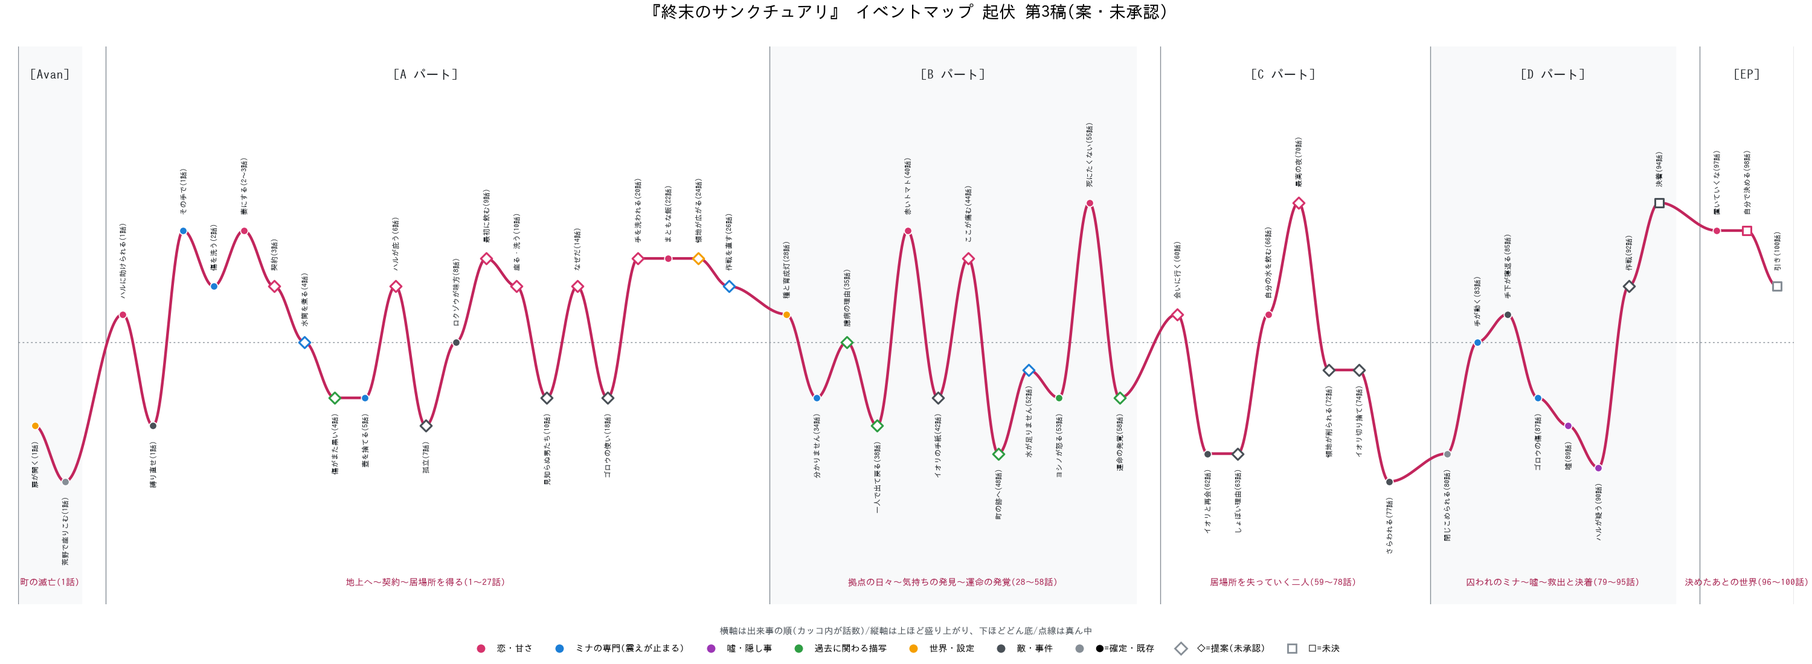
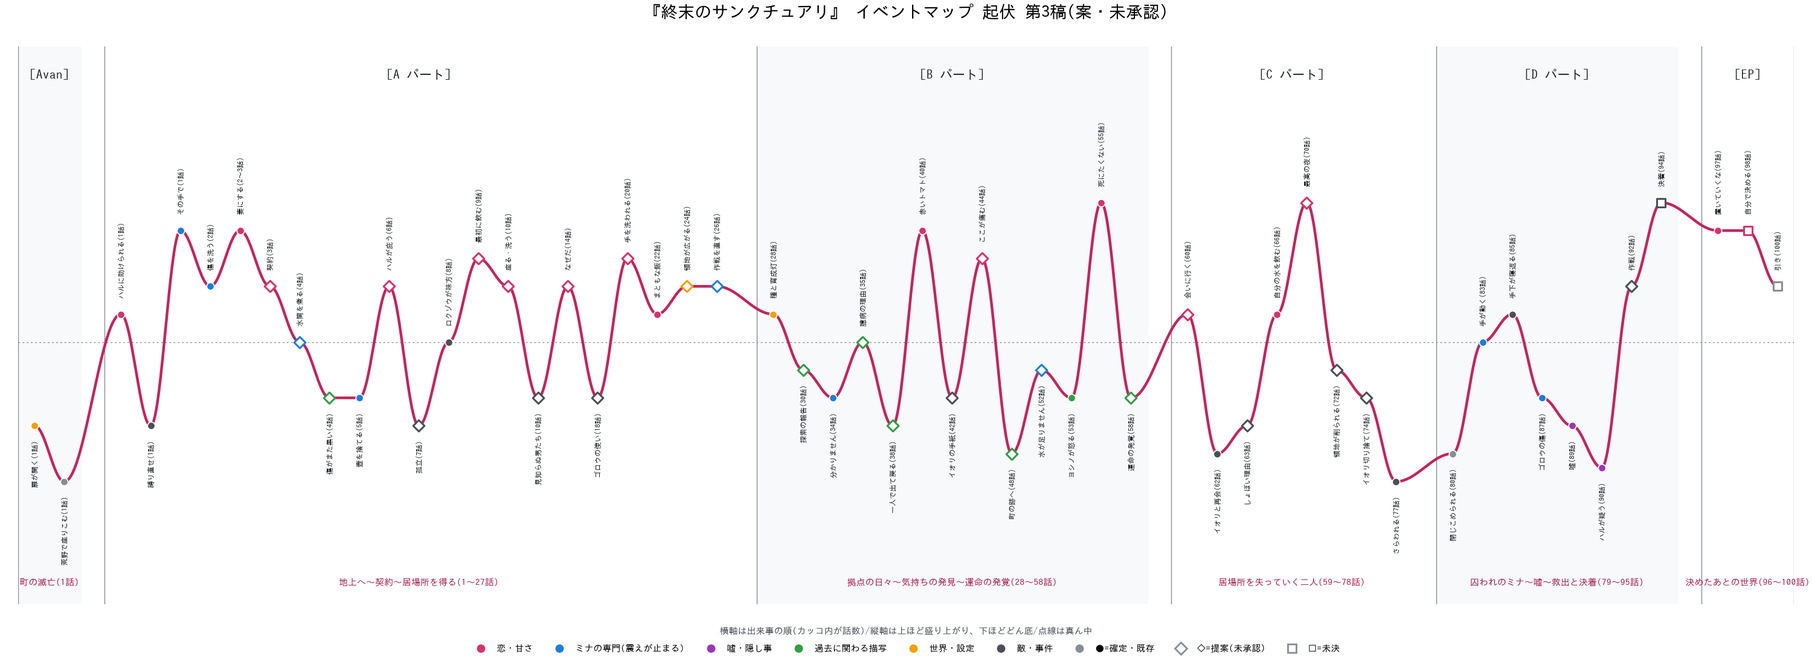
Reflect all review decisions in the event map, memo and CLAUDE.md
Claude-Session: https://claude.ai/code/session_018dkUDXa3XjFeNeXGfXNeGK

diff --git a/novels/shumatsu-no-sanctuary/案/案_イベントマップ.md b/novels/shumatsu-no-sanctuary/案/案_イベントマップ.md
@@ -8,7 +8,8 @@
 - 「空き」の話数は、日常回・つなぎ回。中身は未決(足していない)
 - ミナとハルの台詞に数字がないことをスクリプトで確認済み(0件)
 - 14話の「今のを、繰り返せ」は、9話にも同じ台詞がある。意図した反復かどうか、要確認
-- 22話の飯で手下が「姐さん」と呼ぶ形は、企画書どおり。34話で変える案は `案_予想を外す.md` #3
+- 手下が「姐さん」と呼ぶのは34話から(予想を外す#3を採用)。22話は、うまい、だが「ボスの薬を捨てた女」のまま
+- 2026-10-02: 点検の結果と「予想を外す案」の採用を反映(【変】)。決定の一覧は `04_進捗メモ.md`
 
 ---
 
@@ -53,7 +54,7 @@
   手下「その女が、ボスの薬を」ハル「その薬は、俺が捨てさせた。文句があるなら、俺に言え」。夜、ハル「傷の続きを診ろ。……手下のいない時に」
 
 ・手下に避けられ、夜通し鍋を洗う(7話)【新】 [起伏2/敵/★]
-  水汲みに誰も付き合わない。ヨシノ「お嬢様。自分の分は」ミナ「……はい」ヨシノ「はい、じゃなくて」。ミナは夜が明けるまで鍋を洗う。暗がりで、ハルが見ている
+  水汲みに誰も付き合わない。ヨシノ「お嬢様。自分の分は、飲みましたか」ミナ「……あとで、飲みます」ヨシノ「あとで、って何回言うんですか」。ミナは夜が明けるまで鍋を洗う。暗がりで、ハルが見ている
 
 ・ロクゾウが味方につき、ハルが決める(8話) [起伏5/敵/○]
   ハル「今日から、水はミナの言うとおりにやる。……俺が決めた」ロクゾウ「姐さん一人で、水汲みが四人浮く。……損はしねえ」
@@ -76,33 +77,36 @@
 ・ハルが、ミナの手を洗う(ヨシノも同意)(20話) [起伏8/恋/★]
   【ハル、ミナの手首をつかんで水桶に入れる】ミナ「ひっ……な、なにを」ハル「お前は人の手ばかり洗って、自分の手は後回しだ。理屈に合わない」ヨシノ「……その人の言うとおりです、お嬢様」ミナ「ヨシノまで……」
 
-・最初のまともな飯、「姐さん」(22話) [起伏8/恋/○]
-  手下「……うめえ」手下「姐さん、おかわり」ミナ「え、あ、はい……」
+・最初のまともな飯。うまい、だがまだ「ボスの薬を捨てた女」(22話)【変】 [起伏6/恋/○]
+  手下「……うめえ」手下「……だが、ボスの薬を捨てた女だ」ミナ「あ、はい……」
 
-・領地が、ミナの知らないうちに広がる(24話) [起伏8/世界/★]
-  ロクゾウ「姐さん、また一つ、集落が入ってきました」ミナ「え。わたし、水を分けただけで」ハル「水のあるところに、人は集まる。集まれば、そこが領地になる。……お前の仕業だ」
+・領地が、ミナの知らないうちに広がる(24話)【変】 [起伏7/世界/★]
+  ロクゾウ「姐さん、集落が、水を分けてくれと来ました」ミナ「え。わたし、水を汲んだだけで」ハル「水のあるところに、人は集まる。集まれば、そこが領地になる。……お前の仕業だ」
 
 ・ハルの作戦を、ミナが直す(使いの一団を迎え撃つ)(26話) [起伏7/専門・敵/★]
-  ハル「使いの後ろに、まだ来る。裏の井戸で待ち伏せる」ミナ「そ、その井戸は……だめです」ハル「なぜだ。水は澄んでいる」【ミナ、水を光にかざす。震えが、止まる】ミナ「澄んでいるのに、においがしません。虫もいません。生き物が寄りつかない水は、飲めません」【ハル、地図を描き直す】ハル「……俺の作戦を直したのは、お前が初めてだ」
+  ハル「使いの後ろに、まだ来る。裏の井戸で待ち伏せる」ミナ「そ、その井戸は……だめです」ハル「なぜだ。水は澄んでいる」【ミナ、水を光にかざす。震えが、止まる】ミナ「澄んでいるのに、においがしません。虫もいません。生き物が寄りつかない水は、飲めません」【ハル、地図を描き直す】ハル「……俺の作戦を直したのは、お前が初めてだ」【迎え撃ちのあと】ハル「使いの連中だ。……ここでは、殺していない」ミナ「……ここでは」ハル「お前が言った。お前のいる場所では、殺すな、と。この先の谷は、お前のいる場所ではない」ミナ「……次から、『どこでも』と、言います」ハル「そう言え。……言われなければ、守れない」
 
 (空き: 11〜13話、15〜17話)
 
 ## Bパート(28〜58話) 拠点の日々〜気持ちの発見〜運命の発覚
 
-・種と育成灯(28話) [起伏6/世界/○]
-  ミナが荷の底から種を出す。ロクゾウ「……これ、いくらになる」
+・種と育成灯(28話)【変】 [起伏6/世界/○]
+  略奪団の戦利品の山から、ミナが種を見つける。ハル「戦利品の底にあった。使い道が、分からん」ミナ「……種と、育てるための灯です」ロクゾウ「……これ、いくらになる」
 
-・燃料が尽き、「分かりません」(34話) [起伏3/専門/○]
-  ミナ「……分かりません」。手下たちが初めて、ミナを心配して集まる
+・イオリの探索の報告(30話)【新】 [起伏4/過去/★]
+  ロクゾウ「姐さん、イオリって男は、まだ見つかりません」ミナ「……そう、ですか」ハル「探している。続ける」
 
-・ミナの臆病の理由を、ハルに打ち明ける(35話) [起伏5/過去/★]
-  ミナ「子どものころ、水の検査を、見落としました。町の子どもたちが、たくさん、寝こんで」ハル「見落としたのは、昔のお前だ。今のお前は、毎日見ている」
+・燃料が尽き、「分かりません」(34話)【変】 [起伏3/専門/○]
+  ミナ「……分かりません」。手下たちが初めて、ミナを心配して集まる。手下「姐さんでも、分からねえことがあるのか」手下「……火なら、俺たちが起こす」【手下たち、「姐さん」と呼びはじめる】
+
+・ミナの臆病の理由を、ハルに打ち明ける(35話)【変】 [起伏5/過去/★]
+  ミナ「子どものころ、水の検査を、見落としました。町の子どもたちが、たくさん、寝こんで」ハル「その検査は、今は誰が」ミナ「……わたしです」ハル「なら、今夜も頼む」
 
 ・一人でイオリの手がかりを追い、震えて戻る(38話) [起伏2/過去/★]
-  ミナは荒野で震えて動けなくなり、自分の足で戻る。ミナ「……鍋を、置いてきたので」
+  ミナは荒野で震えて動けなくなり、自分の足で戻る。ミナ「……鍋を、置いてきたので」。少し離れて、ヨシノがついてきている。ヨシノ「お嬢様。鍋は、私が持ちます」
 
-・最初の赤いトマト(40話) [起伏9/恋/○]
-  灰色の荒野に赤い実。手下全員が覗きに来る。ハル「……食えるのか」ミナ「はい。洗ってから」
+・最初の赤いトマト(40話)【変】 [起伏9/恋/○]
+  灰色の荒野に赤い実。手下全員が覗きに来る。ロクゾウ「姐さん。……実が、七つ。数は、合います」ミナ「あ、はい」ハル「……食えるのか」ミナ「はい。洗ってから」【手下が、鍋の前に列を作る】ロクゾウ「姐さん、これで合ってますか」。【ミナ、ハルの左肩を見る】ミナ「……傷、塞がりました」ハル「そうか」
 
 ・イオリの手紙が届く(小物のヒールの初登場)(42話) [起伏3/敵/★]
   使いが、手紙を置いていく。ミナが読み上げる。ミナ「『生きていたのか。運のいい女だ。ゴロウさんに、頼んでやる。戻ってこい。感謝しろ』」ハル「……その男が、お前の婚約者か」ミナ「はい。……手続き上は」
@@ -110,14 +114,14 @@
 ・「ここが痛む。原因を調べろ」(44話) [起伏8/恋/★]
   ハル「お前がその名前を言うと、ここが痛む。原因を調べろ」ミナ「そ、それは、わたしの専門外です!」
 
-・町の跡へ、大事なものを取りに行く(48話) [起伏1/過去・世界/★]
-  扉の前でミナの足が止まる。ハル「行く」ミナ「でも」ハル「お前が見る景色は、俺も見る」(取りに行くものは未決)
+・町の跡へ、見に行く(取りに行くものはなし。生存者はいない)(48話)【変】 [起伏1/過去・世界/★]
+  扉の前でミナの足が止まる。ハル「行く」ミナ「でも」ハル「お前が見る景色は、俺も見る」。ミナ「……誰も、いませんでした」ハル「探したか」ミナ「はい。……全部」
 
 ・他勢力の襲撃。誰も死なない。ハルが左肩を切られる(52話) [起伏4/専門/★]
   ミナ「……水が、足りません」。倒れた敵のけが人の手当てで、手一杯になる。ヨシノ「お嬢様。あの人の肩が」ミナ「……え」【ハル、外套の左肩(2話と同じ側)が黒く濡れている。何も言わない】
 
-・ミナが自分を責めて眠らず、ヨシノが怒る(53話) [起伏3/過去/○]
-  ヨシノ「お嬢様。自分の分は」ミナ「……はい」
+・ミナが自分を責めて眠らず、ヨシノが怒る(53話)【変】 [起伏3/過去/○]
+  ヨシノ「お嬢様。自分の分は、飲みましたか」ミナ「……飲みました」ヨシノ「……嘘ですね」ミナ「ご、ごめんなさい」
 
 ・恋の中間点:ハルが傷を見せに来る。初めて名前を呼ぶ(55話) [起伏10/恋/○]
   ハルが自分から傷を見せに来る。ハル「……死にたくない」ミナ「はい。それでいいと思います」ハル「……ミナ」ミナ「は、はい」ハル「……呼んだだけだ」
@@ -125,7 +129,7 @@
 ・運命の発覚:町を襲ったのは、ハルから缶詰を奪った男ゴロウだった(58話) [起伏3/過去・敵/★]
   ロクゾウ「イオリって男は、ゴロウの陣営にいます」ハル「……町を襲ったのは、ゴロウか。あの男は、昔、俺から缶詰を奪った」ミナ「……缶詰を?」ハル「昔だ」
 
-(空き: 29〜33話、45〜47話、49〜51話)
+(空き: 29話、31〜33話、45〜47話、49〜51話)
 
 ## Cパート(59〜78話) 居場所を失っていく二人
 
@@ -135,19 +139,19 @@
 ・イオリと再会し、本人の口から知る(62話)【変】 [起伏1/敵/○]
   イオリ「ミナ。お前が、生きていたのか」イオリ「……扉を開けたのは、俺だ」ミナ「……え」【ミナ、息が止まる】
 
-・しょぼい理由(仮:案1)(63話)【変】 [起伏1/敵/★]
+・しょぼい理由(仮:案1)(63話)【変】 [起伏2/敵/★]
   ミナ「……なぜ、皆を」イオリ「だって、笑ったんだ。皆の前で。俺を」ミナ「……それだけ、ですか」イオリ「俺は、悪くない。あいつらが、悪いんだ」
 
 ・ミナが自分の分の水を先に飲む(66話) [起伏6/恋/○]
   ミナが自分の分の水を先に飲む。ヨシノは何も言わず、外へ出ていく
 
 ・最高の夜:ハルが、ミナの手を洗う(20話の答え)(70話) [起伏10/恋/★]
-  ハル「手を出せ。……洗う。お前は、人の手ばかり洗う。今夜は、お前の番だ」ミナ「……はい」
+  ハル「手を出せ。……洗う。お前は、人の手ばかり洗う。今夜は、お前の番だ」ミナ「……はい」ハル「……乾くまで、待て」【二人、黙って座る】
 
-・ゴロウが、領地の集落を取り上げる(72話) [起伏4/敵/★]
-  ロクゾウ「姐さん。……集落が、二つ、向こうについた」ミナ「え。わたし、何か」ロクゾウ「水を、止められたそうです。あちらの親父に」
+・ゴロウが、領地の集落を取り上げる(72話)【変】 [起伏4/敵/★]
+  ロクゾウ「姐さん。……うちに入っていた集落が、二つ、向こうについました」ミナ「え。わたし、何か」ロクゾウ「水を、止められたそうです。あちらの親父に」
 
-・ゴロウがイオリを切り捨て、ミナを狙う(74話) [起伏4/敵/★]
+・ゴロウがイオリを切り捨て、ミナを狙う(74話)【変】 [起伏3/敵/★]
   ゴロウ「案内は済んだ。もう要らん」イオリ「俺は、お前たちの仲間だろう!」ゴロウ「仲間? 誰が」
 
 ・拠点が襲われ、ミナがさらわれる(77話) [起伏0/敵/○]
@@ -163,8 +167,8 @@
 ・汚れた水を見て、手が動く(83話) [起伏5/専門/○]
   【ミナの震えが、止まる】ミナ「その水は、飲まないでください」
 
-・ゴロウの手下が、一人ずつミナの側につく(85話) [起伏6/敵/○]
-  手下「あんたの水は、腹をこわさない」
+・ゴロウの手下が、一人ずつミナの側につく(85話)【変】 [起伏6/敵/○]
+  手下【空の水筒を、黙って差し出す】ミナ「あ……はい」
 
 ・ゴロウの傷に手が伸びる(87話) [起伏3/専門/○]
   ミナ「わたしにも、止め方が分かりません」
@@ -176,10 +180,10 @@
   物陰で、ハルの足が止まる。ハル「……そうか」
 
 ・ハルが作戦を立てて乗りこむ(92話) [起伏7/敵/★]
-  ハル「全員、地図を見ろ」ロクゾウ「数じゃ勝てません」ハル「数で勝つ作戦じゃない」
+  ハル「全員、地図を見ろ」ロクゾウ「数じゃ勝てません」ハル「数で勝つ作戦じゃない」ハル「……殺すな。ミナは、『どこでも』と言った」
 
 ・決着(ゴロウとイオリの最後は未決)(94話) [起伏10/敵/？]
-  (未決)
+  (決着の中身は未決)。救出後の場面だけ決定: ミナ「……足が、動きません」ハル「なら、ここで待つ」
 
 ## EP(96〜100話) 決めたあとの世界
 
@@ -187,7 +191,7 @@
   ハル「……俺を、置いていくな」(状況はラスト案による)
 
 ・ミナが自分で決める(ラストは未決)(98話) [起伏9/恋/？]
-  L1 イオリをどうするか決める/L2 一人で行こうとしてハルが止める/L3 ここを町にする
+  L1(採用): イオリをどうするか決める。ミナ「ゆ、許しません。……でも、殺しません。水が、汚れるので」/L2 一人で行こうとしてハルが止める(未決)/L3 ここを町にする(未決)
 
 ・引き(100話) [起伏7/—/？]
-  (未決)
+  ハル「式は、いつだ」ミナ「し、式……?」ハル「妻にすると、言った」(最後の台詞の候補。未決)

diff --git a/novels/shumatsu-no-sanctuary/04_進捗メモ.md b/novels/shumatsu-no-sanctuary/04_進捗メモ.md
@@ -47,22 +47,29 @@
 - 2話の「汚れが病気を運ぶことを、誰にも教わらなかった」は削除。傷を洗わなかった理由は「弱みを隠した」だけ
 - ヨシノは女性
 
-## 点検で出た穴(未解決。直す前に案を出す)
+## 決定済み・続き(2026-10-02、点検の結果)
 
-1. 4話までに、ミナが傷を診る約束が2・3話にない(4話の「約束どおり」は削除済み。診る流れ自体は未整理)
-2. 傷: 7話で乾きはじめ→52話で左肩を切られる(2話と同じ側と決定)。8〜51話の経過は未整理
-3. (決定済み)18話の使いが「ゴロウの親父」と名を出し、ハルが「……あの男か」。58話は「町を襲ったのは、ゴロウか。あの男は、昔、俺から缶詰を奪った」
-4. 24話の「また一つ、集落が」の最初の1件が11〜23話にない。24→72話に領地のイベントなし
-5. 28話の「荷の底から種」。第1話でミナは荷を持っていない
-6. 34話の燃料切れ→40話のトマト。灯の復旧が35〜39話にない
-7. 3話の「イオリを探せ」→42話。探索の結果がない。48話の取りに行くものが未決
-8. 契約の条件(誰も殺さない)が3話以降に出ない(26・92・94話)
-9. 89話の嘘の仕込みがない
-10. 不在: ヨシノ20→53話、ロクゾウ28→58話、イオリ42→62話、ハル77→90話
-11. 起伏: 20・22・24話が8の3連続、62・63話が1、72・74話が4、94〜100話に谷がない
-12. 6・7・10話でハルが「何も言わず」の場面が続く(確定「無口にしない」と判断が分かれる)
-13. (決定済み)第1話本文に「地下の水を測るのは、ミナの家の仕事だった。」を入れた。ハルの名前は2話で出す
-14. (決定済み)52話は、ヨシノが先に気づく。他の「予想を外す」案(35・40・48・70・85・94・98・100話)を採るかは未決
+- 4話の「約束どおり」を削除(診る流れ自体は、2〜3話に明示がない。未整理)
+- 52話: ヨシノが先に気づく。切られるのは2話と同じ左肩。40話のトマトの日に「傷、塞がりました」を入れる
+- 18話: 使いが「ゴロウの親父」と名を出し、ハルが「……あの男か」。58話は「町を襲ったのは、ゴロウか。あの男は、昔、俺から缶詰を奪った」
+- 24話: 「最初の一つ」に直す。72話は「うちに入っていた集落が、二つ、向こうについました」
+- 28話: 種と育成灯は、略奪団の戦利品の底にあった(ハル)
+- 30話: ロクゾウが「イオリって男は、まだ見つかりません」と報告する(イベント追加)
+- 34話: 手下が「火なら、俺たちが起こす」と言い、「姐さん」と呼びはじめる。22話は「うまい、だがボスの薬を捨てた女」のまま(予想を外す#3を採用)
+- 26話の後: 「ここでは、殺していない」の抜け道(予想を外す#1)。92話は「……殺すな。ミナは、『どこでも』と言った」
+- 53話: ヨシノが「……嘘ですね」とミナの小さな嘘を見抜く(89話の嘘の仕込み)
+- 38話にヨシノ、40話にロクゾウを出す(不在の解消)
+- 48話: 町の跡は、見に行くだけ。取りに行くものはなし。生存者はいない
+- ハルの無口(7話)は、そのまま
+- 起伏の数値: 22話6、24話7、63話2、74話3
+- 予想を外す案を採用: 35話(仕事を頼む)、40話(手下が列に並ぶ)、70話(黙って座る)、85話(空の水筒)、94話(足が動かない)、98話L1(許さない、でも殺さない)、100話(「式は、いつだ」)
+
+## まだ残っている穴
+
+- 94〜100話に谷がない(起伏10、9、9、7)
+- 7話で乾きはじめた傷の、8〜39話の経過(40話の一行まで)
+- ハルの無口(6・7・10話)は、7話のみ台詞なしで、そのまま
+- 9話以降のゴロウ本人の登場は74話から(18話は使いだけ)
 
 ## 未決
 
@@ -71,9 +78,9 @@
 - 地上に人種が混ざる理由
 - 「ハルヴァルド・オルセン」と「ハル」の関係
 - ミナ視点の山場で、心の声を足すか(第1話は足していない)
-- ラスト、決着(ゴロウとイオリの最後)、町の跡で取りに行くもの、ミナの家族の生死、町の生存者の有無
+- ラスト、決着(ゴロウとイオリの最後)、98話のL2・L3、ミナの家族の生死
 - ジャンル表記(女性向け+男性読者も)
-- 予想を外す10個(`案/案_予想を外す.md`)のうち、どれを採るか
+- 予想を外す10個のうち、採っていないもの(#2 イオリ、#4 ミナが自分から出る、#5 嘘の見抜き方、#6 ゴロウを治しても改心しない、#7 缶詰の男、#8 震えたまま決める、#10 出自)
 
 ## 第1話に置いた伏線
 

diff --git a/novels/shumatsu-no-sanctuary/案/案_全体あらすじ_第9稿.md b/novels/shumatsu-no-sanctuary/案/案_全体あらすじ_第9稿.md
@@ -1,6 +1,6 @@
 # 改稿案: 全体あらすじ(第9稿・未承認)
 
-イベントマップ(第3稿)に合わせた版(ヒールの仕掛け、領地、手紙、名前を呼ぶ場面などを反映)。仮置き: ゴロウは襲撃の実行者/イオリの関与は62話の再会で本人が明かす(1話では描かない)/イオリの理由は案1/イオリは婚約者のまま/町の跡で取りに行くものは未決/ラストは未決。
+イベントマップ(第3稿)に合わせた版(ヒールの仕掛け、領地、手紙、名前を呼ぶ場面などを反映)。仮置き: ゴロウは襲撃の実行者/イオリの関与は62話の再会で本人が明かす(1話では描かない)/イオリの理由は案1/イオリは婚約者のまま/町の跡は見に行くだけ(生存者なし)/ラストは未決。
 
 文明が滅んでから三百年。地上は乾いた荒野になり、人々の一部は地下の町に逃げこんで暮らしてきた。町の扉は、その間一度も開かなかった。
 
@@ -14,7 +14,7 @@
 
 ミナは薬を捨てさせ、水をきれいにし、ご飯を作り、野菜の種を育てはじめる。ハルは何にでも「なぜだ」と尋ね、ミナの手を洗いたがる。手下たちも「姐さん」と呼ぶようになり、水を求めて人が集まって、領地は気づかないうちに広がっていく。
 
-すると、荒野の別の略奪団の頭、ゴロウの使いが現れる。「この水場を分けろ」。ハルが断ると、ゴロウの一団が迫るが、ミナが井戸の水の危険を見抜き、ハルの作戦を直して撃退する。やがてイオリから手紙が届く。「生きていたのか。運のいい女だ。戻ってこい。感謝しろ」。トマトが実った日、ミナは町の跡へ大事なものを取りに行く。廃墟の前で足が止まるミナの隣に、ハルは黙って立つ。
+すると、荒野の別の略奪団の頭、ゴロウの使いが現れる。「この水場を分けろ」。ハルが断ると、ゴロウの一団が迫るが、ミナが井戸の水の危険を見抜き、ハルの作戦を直して撃退する。やがてイオリから手紙が届く。「生きていたのか。運のいい女だ。戻ってこい。感謝しろ」。トマトが実った日、ミナは町の跡を見に行く。廃墟の前で足が止まるミナの隣に、ハルは黙って立つ。町には、生き残った人は、一人もいなかった。
 
 襲撃を受けた夜、肩を切られたハルが、自分から傷を見せに来る。「……死にたくない」。ミナは答える。「はい。それでいいと思います」。ハルは初めて、名前を呼ぶ。「……ミナ」。
 

diff --git a/CLAUDE.md b/CLAUDE.md
@@ -135,7 +135,7 @@ CryptoManga Studios のリポジトリ。小説・マンガ原作の制作を扱
 - ミナは、婚約者イオリが生きているのかを確かめるために動く(第3話)。婚約解消のために地上へ出る、はやめた
 - イオリが町を襲わせた人物だと、ミナが知るのは再会のとき、本人の口から。第1話ではイオリを描かない。「なぜ」を聞くのは再会のあと
 - ハルは、ミナに手当てされて恩義を感じ、執着し、イオリ探しを手伝う。その間に、領地が自然と広がる
-- 領地を広げる途中で、町に部品や大事なものを取りに行くパートがあってもよい(内容は未決)
+- 領地を広げる途中で、町の跡を見に行くパートがある(48話)。取りに行くものはなし。町に生き残った人はいない
 - 第1話の引きは**ボスが手を引く**。ロクゾウ「……終わった」の直後に置く
 - 「その傷、洗わないと死にますよ」は第2話
 - 最後の台詞は未決

diff --git a/novels/shumatsu-no-sanctuary/案/案_予想を外す.md b/novels/shumatsu-no-sanctuary/案/案_予想を外す.md
@@ -15,6 +15,10 @@
 | 9 | 町の生存者が見つかり、町が復興する | 48話・98話 | 一部(未決) | 生存者の有無は未決 |
 | 10 | ハルは、実は高貴な出自 | (まだ書いていない) | 外れている | なし |
 
+## 採用状況(2026-10-02)
+
+採用: #1(26話・92話)、#3(34話)、#9a(48話)、5aの一部(53話の仕込みのみ)。採用の詳細は `04_進捗メモ.md`。ほかに、35・40・70・85・94・98・100話の案も採用(イベントマップに反映済み)。未採用: #2、#4、#5b、#6、#7、#8、#10。
+
 ## 避けた案
 
 1. 約束は守るが、善人ではない。契約の文言「わたしのいる場所では」の抜け穴を使う。
